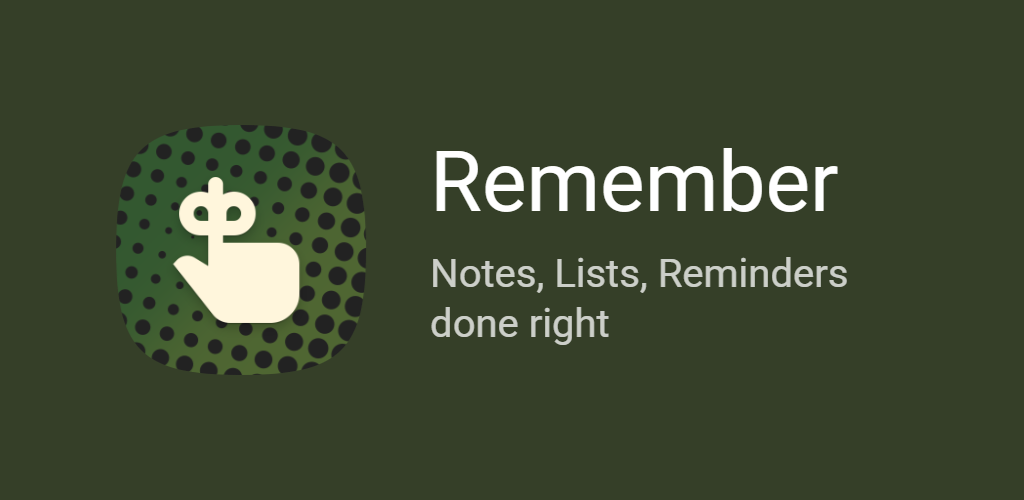
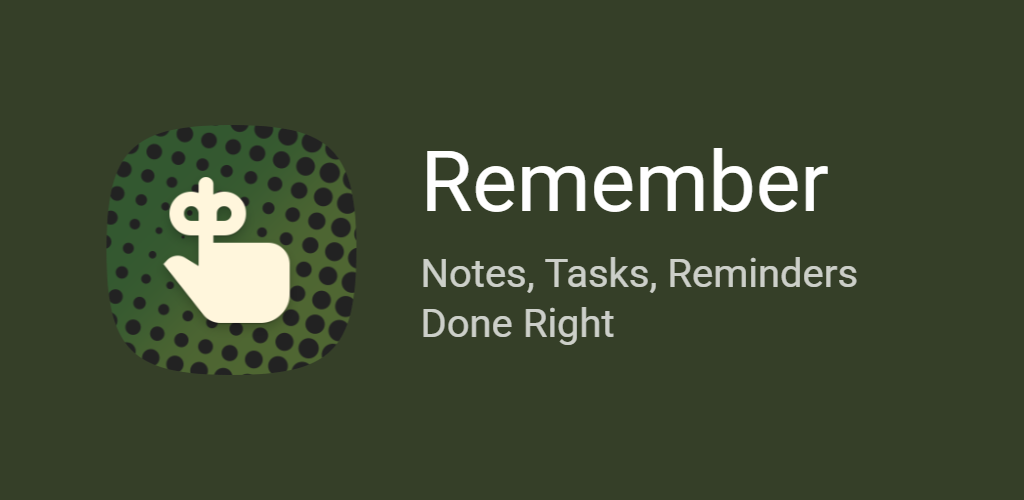
Remove CALL_PHONE permissions, enhance HeroFramingEditor positioning
- delete obsolete terms files, as they are in portfolio now
- Remove links from README,
- enhance HeroFramingEditor positioning logic, that was causing crash
- bump Compose BOM version

Changed region(s): [[0.0938, 0.24, 0.375, 0.75], [0.4062, 0.51, 0.8438, 0.69], [0.4062, 0.3, 0.8125, 0.42]]

diff --git a/app/src/main/java/dev/bikram/remember/ui/common/HeroFramingEditor.kt b/app/src/main/java/dev/bikram/remember/ui/common/HeroFramingEditor.kt
@@ -120,8 +120,18 @@ fun HeroFramingEditorDialog(
                         val topUnclamped = maskH / 2f - framing.focalY * ih * displayScale
                         val minLeft = maskW - scaledW
                         val minTop = maskH - scaledH
-                        val left = leftUnclamped.coerceIn(minLeft, 0f)
-                        val top = topUnclamped.coerceIn(minTop, 0f)
+                        val left =
+                            if (minLeft <= 0f) {
+                                leftUnclamped.coerceIn(minLeft, 0f)
+                            } else {
+                                minLeft / 2f
+                            }
+                        val top =
+                            if (minTop <= 0f) {
+                                topUnclamped.coerceIn(minTop, 0f)
+                            } else {
+                                minTop / 2f
+                            }
                         val centerLeft = (maskW - scaledW) / 2f
                         val centerTop = (maskH - scaledH) / 2f
                         panXPx = left - centerLeft
@@ -143,8 +153,20 @@ fun HeroFramingEditorDialog(
                         val scaledH = ih * displayScale
                         val centerLeft = (maskW - scaledW) / 2f
                         val centerTop = (maskH - scaledH) / 2f
-                        val left = (centerLeft + panXPx).coerceIn(maskW - scaledW, 0f)
-                        val top = (centerTop + panYPx).coerceIn(maskH - scaledH, 0f)
+                        val minLeft = maskW - scaledW
+                        val minTop = maskH - scaledH
+                        val left =
+                            if (minLeft <= 0f) {
+                                (centerLeft + panXPx).coerceIn(minLeft, 0f)
+                            } else {
+                                minLeft / 2f
+                            }
+                        val top =
+                            if (minTop <= 0f) {
+                                (centerTop + panYPx).coerceIn(minTop, 0f)
+                            } else {
+                                minTop / 2f
+                            }
                         val widthDp = with(density) { scaledW.toDp() }
                         val heightDp = with(density) { scaledH.toDp() }
                         val offsetXDp = with(density) { (maskLeft + left).toDp() }

diff --git a/app/src/main/java/dev/bikram/remember/reminders/ActionReceiver.kt b/app/src/main/java/dev/bikram/remember/reminders/ActionReceiver.kt
@@ -1,15 +1,12 @@
 package dev.bikram.remember.reminders
 
-import android.Manifest
 import android.content.BroadcastReceiver
 import android.content.ClipData
 import android.content.ClipboardManager
 import android.content.Context
 import android.content.Intent
-import android.content.pm.PackageManager
 import android.net.Uri
 import android.widget.Toast
-import androidx.core.content.ContextCompat
 import androidx.core.net.toUri
 import dagger.hilt.android.AndroidEntryPoint
 import dev.bikram.remember.R
@@ -138,13 +135,7 @@ class ActionReceiver : BroadcastReceiver() {
     private fun callIntent(
         context: Context,
         number: String,
-    ): Intent {
-        val granted =
-            ContextCompat.checkSelfPermission(context, Manifest.permission.CALL_PHONE) ==
-                PackageManager.PERMISSION_GRANTED
-        val action = if (granted) Intent.ACTION_CALL else Intent.ACTION_DIAL
-        return Intent(action, "tel:$number".toUri())
-    }
+    ): Intent = Intent(Intent.ACTION_DIAL, "tel:$number".toUri())
 
     private fun normalizeUrl(s: String): String = if (s.startsWith("http://") || s.startsWith("https://")) s else "https://$s"
 

diff --git a/app/src/main/java/dev/bikram/remember/reminders/ReminderReceiver.kt b/app/src/main/java/dev/bikram/remember/reminders/ReminderReceiver.kt
@@ -536,10 +536,6 @@ class ReminderReceiver : BroadcastReceiver() {
                             addFlags(Intent.FLAG_ACTIVITY_CLEAR_TOP)
                             putExtra(SnoozeActivity.EXTRA_NOTE_ID, noteId)
                         }
-                    // Always ACTION_DIAL even when CALL_PHONE is granted. ACTION_CALL from a
-                    // PendingIntent is fragile (some OEMs deny it without an active activity)
-                    // and dropping the user into the dialer with the number pre-filled is the
-                    // more predictable behavior anyway.
                     ActionType.CALL_NUMBER -> Intent(Intent.ACTION_DIAL, "tel:${action.details}".toUri())
                     ActionType.SEND_MESSAGE -> Intent(Intent.ACTION_SENDTO, "smsto:${action.details}".toUri())
                     ActionType.SEND_EMAIL -> Intent(Intent.ACTION_SENDTO, "mailto:${action.details}".toUri())

diff --git a/README.md b/README.md
@@ -1,14 +1,12 @@
 # Remember
 
-<img alt="Remember: Notes, lists, reminders - done right." src="./fastlane/metadata/android/en-US/images/featureGraphic.png" />
+<img alt="Remember: Notes, tasks, reminders - done right." src="./fastlane/metadata/android/en-US/images/featureGraphic.png" />
 
 **Never lose an important reminder to an accidental swipe.**
 
 You're clearing your notification shade — swiping away emails, messages, news — and a reminder goes with them. You didn't mean to. Now you're not sure what it said, just that it was probably important. That brief flash of *"wait, what was that?"* is the problem Remember solves.
 
 If a reminder notification gets swiped away without being marked `Done`, Remember brings it back. Not as nagging — just a quiet signal that something is still waiting. Mark it done and it's gone for good.
-
-Get it on [**Google Play**](https://play.google.com/store/apps/details?id=dev.bikram.remember) or [**GitHub**](https://github.com/bikram-agarwal/Remember/releases/latest)
 
 ---
 
@@ -50,8 +48,7 @@ Notes are stored on-device. No Remember servers. Manual backup and restore let y
 
 ## Download
 
-[**Google Play**](https://play.google.com/store/apps/details?id=dev.bikram.remember) · [**APK (Releases)**](https://github.com/bikram-agarwal/Remember/releases)
-
+Coming soon
 ---
 
-**Links:** [Project site](https://bikram-agarwal.github.io/Remember/) · [Privacy policy](https://bikram-agarwal.github.io/Remember/privacy.html)
+**Links:** [Project site](https://bikram-agarwal.github.io/remember/) · [Privacy policy](https://bikram-agarwal.github.io/remember/privacy)
